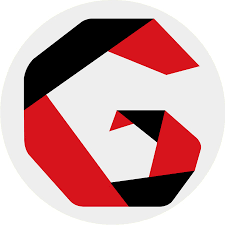
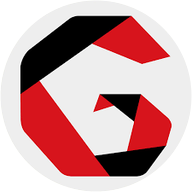
feat: SEO 보강 - robots.txt, sitemap.xml, 페이지별 canonical·hreflang·공유 태그, 아이콘
운영 사이트 SEO 점검에서 나온 문제(1~4번)를 수정한다.

- robots.txt: 운영 배포는 허용(/api/, 결제 결과 페이지는 차단)하고 사이트맵 주소 포함,
  미리보기·로컬 빌드는 전체 차단(VERCEL_ENV 기준)
- sitemap.xml: 한국어·영어 메인·이용약관·개인정보처리방침 6개 주소와 언어 짝(hreflang),
  결제 결과 페이지는 제외
- lib/seo.ts: 페이지별 canonical, 한국어↔영어 hreflang(x-default=한국어), OG·트위터 태그를
  페이지 자신의 제목·설명·주소로 생성. 레이아웃은 공통 기본값만 유지
- 개인정보처리방침·이용약관 전용 설명문(한/영) 추가 — 기존에는 메인 설명·OG 제목·주소를
  그대로 물려받던 문제 해결
- lib/siteUrl.ts: 사이트 대표 주소와 운영 배포 여부를 한 곳에서 관리
- 아이콘: icon.png 192×192(원형, 투명 모서리), apple-icon.png 180×180, favicon.ico(16·32·48)

diff --git a/app/[lang]/layout.tsx b/app/[lang]/layout.tsx
@@ -3,6 +3,7 @@ import { notFound } from "next/navigation";
 import "./globals.css";
 import { LOCALES, getDict, isLocale } from "@/lib/i18n";
 import ScrollTop from "@/components/ScrollTop";
+import { siteUrl } from "@/lib/siteUrl";
 
 export const viewport: Viewport = {
   width: "device-width",
@@ -14,40 +15,16 @@ export function generateStaticParams() {
   return LOCALES.map((lang) => ({ lang }));
 }
 
-// 링크 미리보기(OG 이미지)의 주소를 절대 주소로 만들 때 쓰는 사이트 주소.
-// 자체 도메인을 연결하면 NEXT_PUBLIC_SITE_URL 환경변수에 그 주소(https://…)를 넣으세요.
-const siteUrl =
-  process.env.NEXT_PUBLIC_SITE_URL ??
-  (process.env.VERCEL_PROJECT_PRODUCTION_URL
-    ? `https://${process.env.VERCEL_PROJECT_PRODUCTION_URL}`
-    : "https://gmu-membership.vercel.app");
-
+// 사이트 공통 기본값. canonical·hreflang·공유 태그는 페이지마다 달라서 각 페이지의 generateMetadata 가 만듭니다.
+// (lib/seo.ts 의 pageMetadata)  metadataBase 덕분에 페이지에서 쓰는 상대 주소가 절대 주소로 바뀝니다.
 export async function generateMetadata({ params }: { params: Promise<{ lang: string }> }): Promise<Metadata> {
   const { lang } = await params;
   if (!isLocale(lang)) return {};
   const dict = getDict(lang);
-  // public/og-image.png: 1200x630, 로고 전체가 가운데에 보이는 공유용 이미지
-  const image = { url: "/og-image.png", width: 1200, height: 630, alt: dict.brand.logoAlt };
   return {
     metadataBase: new URL(siteUrl),
     title: dict.meta.title,
     description: dict.meta.description,
-    alternates: { languages: { ko: "/ko", en: "/en" } },
-    openGraph: {
-      type: "website",
-      siteName: dict.brand.name,
-      title: dict.meta.title,
-      description: dict.meta.description,
-      url: `/${lang}`,
-      locale: lang === "ko" ? "ko_KR" : "en_US",
-      images: [image],
-    },
-    twitter: {
-      card: "summary_large_image",
-      title: dict.meta.title,
-      description: dict.meta.description,
-      images: [image.url],
-    },
   };
 }
 

diff --git a/lib/seo.ts b/lib/seo.ts
@@ -1,0 +1,40 @@
+import type { Metadata } from "next";
+import type { Dict, Locale } from "@/lib/i18n";
+
+// 페이지별 검색·공유용 메타 정보를 만듭니다. (metadataBase 는 레이아웃에 있어 아래 주소는 절대 주소로 바뀝니다)
+//   path: 언어를 뺀 경로. 메인은 "", 이용약관은 "/terms"
+// - canonical: 그 페이지 자기 자신의 주소
+// - hreflang: 같은 내용의 한국어·영어 짝(x-default 는 한국어)
+// - OG/트위터: 페이지 자신의 제목·설명·주소로 공유되게 함
+export function pageMetadata(
+  lang: Locale,
+  dict: Dict,
+  path: string,
+  info: { title: string; description: string },
+): Metadata {
+  const url = `/${lang}${path}`;
+  const image = { url: "/og-image.png", width: 1200, height: 630, alt: dict.brand.logoAlt };
+  return {
+    title: info.title,
+    description: info.description,
+    alternates: {
+      canonical: url,
+      languages: { ko: `/ko${path}`, en: `/en${path}`, "x-default": `/ko${path}` },
+    },
+    openGraph: {
+      type: "website",
+      siteName: dict.brand.name,
+      title: info.title,
+      description: info.description,
+      url,
+      locale: lang === "ko" ? "ko_KR" : "en_US",
+      images: [image],
+    },
+    twitter: {
+      card: "summary_large_image",
+      title: info.title,
+      description: info.description,
+      images: [image.url],
+    },
+  };
+}

diff --git a/app/sitemap.ts b/app/sitemap.ts
@@ -1,0 +1,23 @@
+import type { MetadataRoute } from "next";
+import { LOCALES } from "@/lib/i18n";
+import { siteUrl } from "@/lib/siteUrl";
+
+// 검색엔진에 알려 줄 페이지 목록(/sitemap.xml). 결제 결과 페이지는 검색에 나올 필요가 없어 뺍니다.
+// 같은 내용의 한국어·영어 페이지는 서로의 짝(hreflang)으로 연결합니다.
+const PAGES = [
+  { path: "", priority: 1 },
+  { path: "/terms", priority: 0.3 },
+  { path: "/privacy", priority: 0.3 },
+];
+
+export default function sitemap(): MetadataRoute.Sitemap {
+  return PAGES.flatMap(({ path, priority }) => {
+    const languages = Object.fromEntries(LOCALES.map((l) => [l, `${siteUrl}/${l}${path}`]));
+    return LOCALES.map((l) => ({
+      url: `${siteUrl}/${l}${path}`,
+      changeFrequency: "monthly" as const,
+      priority,
+      alternates: { languages },
+    }));
+  });
+}

diff --git a/app/[lang]/page.tsx b/app/[lang]/page.tsx
@@ -1,3 +1,4 @@
+import type { Metadata } from "next";
 import { notFound } from "next/navigation";
 import SiteHeader from "@/components/SiteHeader";
 import Hero from "@/components/Hero";
@@ -8,6 +9,14 @@ import Faq from "@/components/Faq";
 import SiteFooter from "@/components/SiteFooter";
 import { getDict, isLocale } from "@/lib/i18n";
 import { isPaymentReady } from "@/lib/payment";
+import { pageMetadata } from "@/lib/seo";
+
+export async function generateMetadata({ params }: { params: Promise<{ lang: string }> }): Promise<Metadata> {
+  const { lang } = await params;
+  if (!isLocale(lang)) return {};
+  const dict = getDict(lang);
+  return pageMetadata(lang, dict, "", { title: dict.meta.title, description: dict.meta.description });
+}
 
 export default async function Home({ params }: { params: Promise<{ lang: string }> }) {
   const { lang } = await params;

diff --git a/app/[lang]/privacy/page.tsx b/app/[lang]/privacy/page.tsx
@@ -3,13 +3,16 @@ import { notFound } from "next/navigation";
 import LegalPage from "@/components/LegalPage";
 import LegalSections from "@/components/LegalSections";
 import { getDict, isLocale } from "@/lib/i18n";
+import { pageMetadata } from "@/lib/seo";
 import { privacyContent } from "@/lib/i18n/legal";
 
 type Props = { params: Promise<{ lang: string }> };
 
 export async function generateMetadata({ params }: Props): Promise<Metadata> {
   const { lang } = await params;
-  return isLocale(lang) ? { title: getDict(lang).meta.privacyTitle } : {};
+  if (!isLocale(lang)) return {};
+  const dict = getDict(lang);
+  return pageMetadata(lang, dict, "/privacy", { title: dict.meta.privacyTitle, description: dict.meta.privacyDescription });
 }
 
 export default async function PrivacyPage({ params }: Props) {

diff --git a/app/[lang]/terms/page.tsx b/app/[lang]/terms/page.tsx
@@ -3,13 +3,16 @@ import { notFound } from "next/navigation";
 import LegalPage from "@/components/LegalPage";
 import LegalSections from "@/components/LegalSections";
 import { getDict, isLocale } from "@/lib/i18n";
+import { pageMetadata } from "@/lib/seo";
 import { termsContent } from "@/lib/i18n/legal";
 
 type Props = { params: Promise<{ lang: string }> };
 
 export async function generateMetadata({ params }: Props): Promise<Metadata> {
   const { lang } = await params;
-  return isLocale(lang) ? { title: getDict(lang).meta.termsTitle } : {};
+  if (!isLocale(lang)) return {};
+  const dict = getDict(lang);
+  return pageMetadata(lang, dict, "/terms", { title: dict.meta.termsTitle, description: dict.meta.termsDescription });
 }
 
 export default async function TermsPage({ params }: Props) {

diff --git a/lib/i18n/ko.ts b/lib/i18n/ko.ts
@@ -9,6 +9,9 @@ export const ko = {
       "글로벌미디어연합(GMU) — 지역의 시선을 세계로 확장하고, 현장과 사람을 연결하는 종합 미디어 연합 플랫폼. 일반회원·기업회원 가입 안내와 온라인 신청.",
     privacyTitle: "개인정보처리방침 | 글로벌미디어연합",
     termsTitle: "이용약관·환불규정 | 글로벌미디어연합",
+    privacyDescription:
+      "글로벌미디어연합 회원 가입 시 수집하는 개인정보의 항목, 이용 목적, 보유 기간과 이용자의 권리를 안내합니다.",
+    termsDescription: "글로벌미디어연합 회원 구분별 연회비, 결제 방법, 환불 규정과 사업자 정보를 안내합니다.",
   },
   brand: {
     name: "글로벌미디어연합",

diff --git a/lib/i18n/en.ts b/lib/i18n/en.ts
@@ -10,6 +10,10 @@ export const en: Dict = {
       "Global Media Union (GMU) — a comprehensive media alliance platform that extends local perspectives to the world and connects people with the field. Membership guide and online application for individuals and companies.",
     privacyTitle: "Privacy Policy | Global Media Union",
     termsTitle: "Terms & Refund Policy | Global Media Union",
+    privacyDescription:
+      "How Global Media Union collects, uses and retains the personal information you provide when applying for membership, and your rights.",
+    termsDescription:
+      "Annual membership fees, payment methods, refund policy and business information for Global Media Union.",
   },
   brand: {
     name: "Global Media Union",

diff --git a/app/robots.ts b/app/robots.ts
@@ -1,0 +1,15 @@
+import type { MetadataRoute } from "next";
+import { isProduction, siteUrl } from "@/lib/siteUrl";
+
+// 검색엔진 봇 안내(/robots.txt).
+// - 운영 배포: 사이트 전체를 허용하되, 검색에 나올 필요가 없는 API와 결제 결과 페이지는 막습니다.
+// - 그 외(미리보기·로컬 빌드 등): 잘못 검색에 노출되지 않도록 전체를 막습니다.
+export default function robots(): MetadataRoute.Robots {
+  if (!isProduction) {
+    return { rules: [{ userAgent: "*", disallow: "/" }] };
+  }
+  return {
+    rules: [{ userAgent: "*", allow: "/", disallow: ["/api/", "/ko/payment/", "/en/payment/"] }],
+    sitemap: `${siteUrl}/sitemap.xml`,
+  };
+}

diff --git a/lib/siteUrl.ts b/lib/siteUrl.ts
@@ -1,0 +1,10 @@
+// 사이트의 대표 주소. robots.txt·sitemap.xml·공유 태그(OG)의 절대 주소를 만들 때 씁니다.
+// 자체 도메인을 연결하면 NEXT_PUBLIC_SITE_URL 환경변수에 그 주소(https://…)를 넣으세요.
+export const siteUrl =
+  process.env.NEXT_PUBLIC_SITE_URL ??
+  (process.env.VERCEL_PROJECT_PRODUCTION_URL
+    ? `https://${process.env.VERCEL_PROJECT_PRODUCTION_URL}`
+    : "https://gmu-membership.vercel.app");
+
+// 운영 배포인지. 미리보기·로컬 빌드는 검색에 노출되지 않도록 robots.txt 를 전체 차단으로 만듭니다.
+export const isProduction = process.env.VERCEL_ENV === "production";
